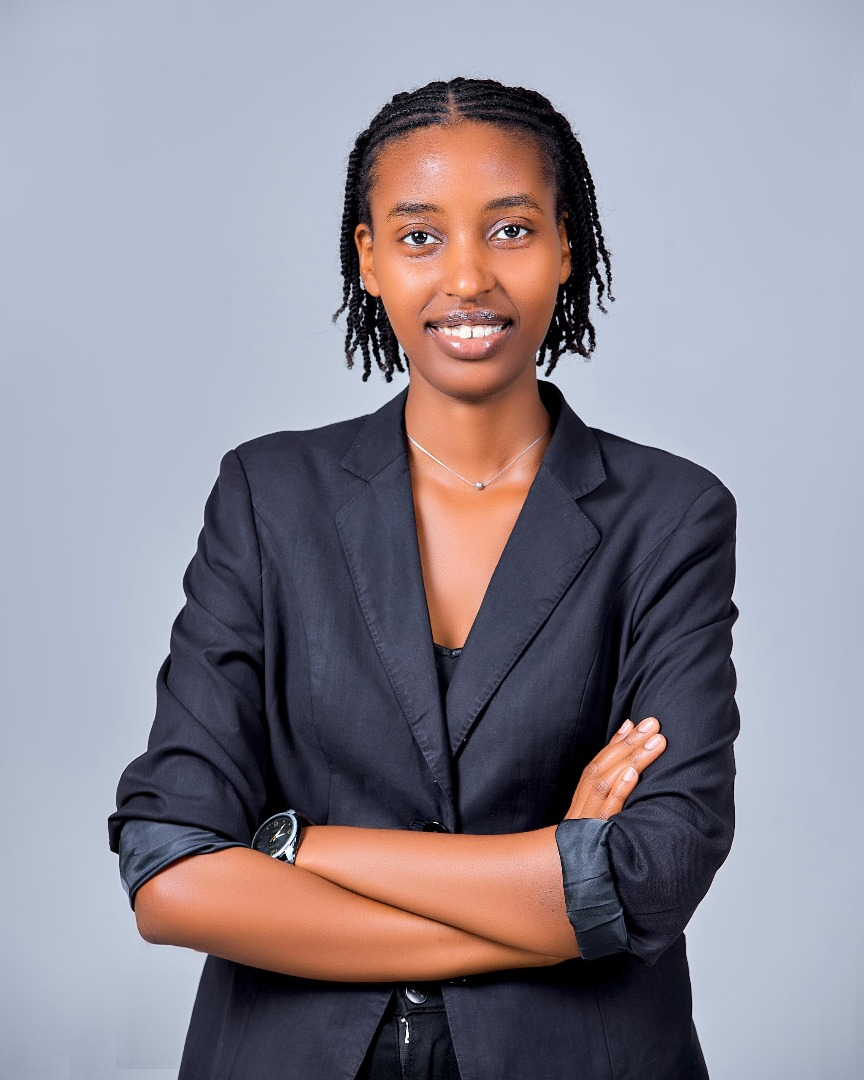
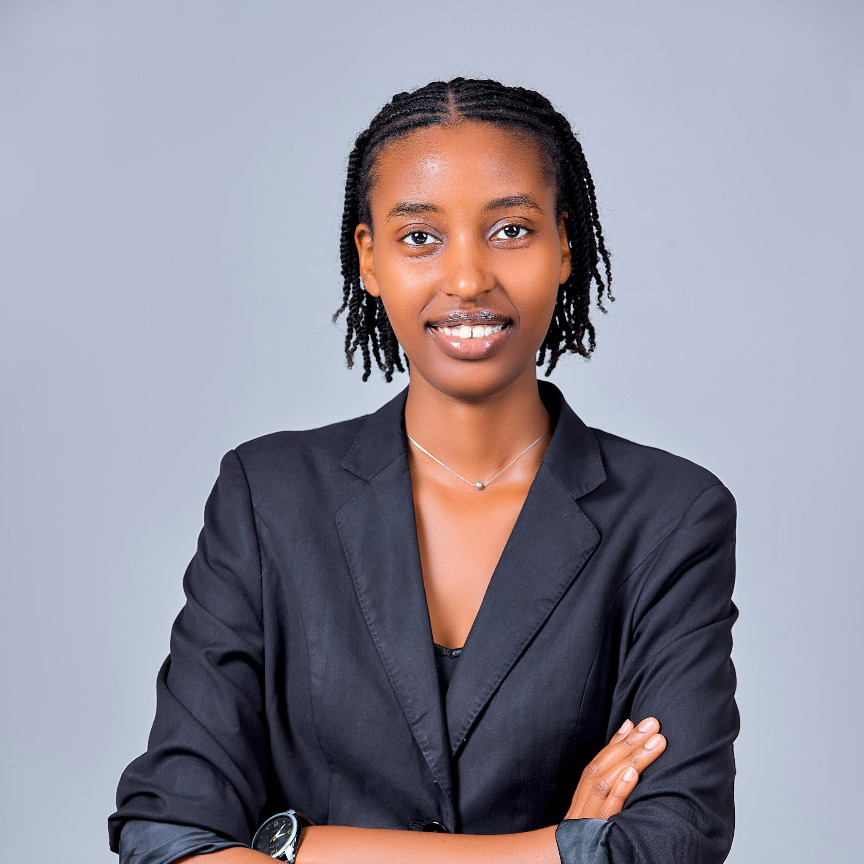
Done with image responsiveness

diff --git a/src/pages/Home.tsx b/src/pages/Home.tsx
@@ -59,10 +59,10 @@ const Home = () => {
         <div className="container mx-auto px-4 relative z-10">
           <div className="flex flex-col lg:flex-row items-center min-h-[80vh]">
             {/* Image Section with irregular shape */}
-            <div className="w-full lg:w-1/2 mb-8 md:mb-12 lg:mb-0 mt-12 md:mt-16 lg:mt-21 flex justify-center lg:justify-start">
+            <div className="w-full lg:w-1/2 mb-8 md:mb-12 lg:mb-0 mt-12 md:mt-21 lg:mt-21 flex justify-center lg:justify-start">
             <div className="relative group w-full max-w-sm md:max-w-md lg:max-w-lg">
                 {/* Main image container with irregular shape */}
-                <div className="relative w-full h-64 sm:h-80 md:h-96 lg:h-120 mx-auto transform transition-all duration-700 hover:scale-105 hover:rotate-2">
+                <div className="relative w-full h-90 sm:h-80 md:h-96 lg:h-120 mx-auto transform transition-all duration-700 hover:scale-105 hover:rotate-2">
                 {/* Irregular background shape */}
                 <div className="absolute inset-0 bg-gradient-to-br from-green-500 via-green-600 to-teal-500 rounded-[30px_15px_50px_20px] sm:rounded-[40px_18px_60px_25px] lg:rounded-[50px_20px_80px_30px] transform rotate-3 sm:rotate-4 lg:rotate-6 group-hover:rotate-6 sm:group-hover:rotate-8 lg:group-hover:rotate-12 transition-transform duration-700"></div>
                 
@@ -75,7 +75,7 @@ const Home = () => {
                     <img 
                         src="/sonia (2).jpeg" 
                         alt="Profile" 
-                        className="object-cover py-10 w-100 h-150"
+                        className="object-cover lg:w-full lg:h-full md:w-fit md:h-fit sm:w-fit sm:h-fit"
                     />
                     
                     {/* Floating elements around image */}
@@ -177,7 +177,7 @@ const Home = () => {
             <div className="grid lg:grid-cols-2 gap-16 items-center">
               <div className="space-y-6 text-lg text-gray-600 leading-relaxed">
                 <p className="transform hover:scale-105 transition-transform duration-300 p-6 bg-gradient-to-r from-green-50 to-indigo-50 rounded-2xl border border-green-100">
-                  I am a passionate entrepreneurial leader with a Bachelor's degree in Entrepreneurial Leadership 
+                  I am a passionate entrepreneurial leader persuing Bachelor's degree in Entrepreneurial Leadership 
                   from the African Leadership University. My professional journey has spanned finance, operations, 
                   and social impact initiatives, with a focus on creating sustainable solutions for African communities.
                 </p>

diff --git a/src/pages/Portfolio.tsx b/src/pages/Portfolio.tsx
@@ -114,7 +114,7 @@ const Timeline = () => {
     {
       date: "May 2023",
       title: "Bachelor's in Entrepreneurial Leadership",
-      description: "Graduated from The African Leadership University",
+      description: "I have started my bachelor's degree at The African Leadership University",
       icon: Target,
       color: "orange"
     },
@@ -174,7 +174,7 @@ const Timeline = () => {
                 <div className={`p-5 md:p-8 bg-white rounded-[15px_8px_15px_8px] md:rounded-[25px_10px_25px_10px] shadow-lg md:shadow-xl hover:shadow-xl md:hover:shadow-2xl transition-shadow duration-500 border border-gray-100 ${
                   isLeft ? 'mr-4 md:mr-8' : 'ml-4 md:ml-8'
                 }`}>
-                  <div className={`inline-flex items-center px-3 py-1 md:px-4 md:py-2 rounded-full text-xs md:text-sm font-medium bg-${event.color}-100 text-${event.color}-700 mb-3 md:mb-4`}>
+                  <div className={`inline-flex items-center px-3 py-1 md:px-4 md:py-2 rounded-full text-xs md:text-sm font-medium bg-${event.color}-300 text-${event.color}-700 mb-3 md:mb-4`}>
                     <Calendar className="h-3 w-3 md:h-4 md:w-4 mr-1 md:mr-2" />
                     {event.date}
                   </div>
